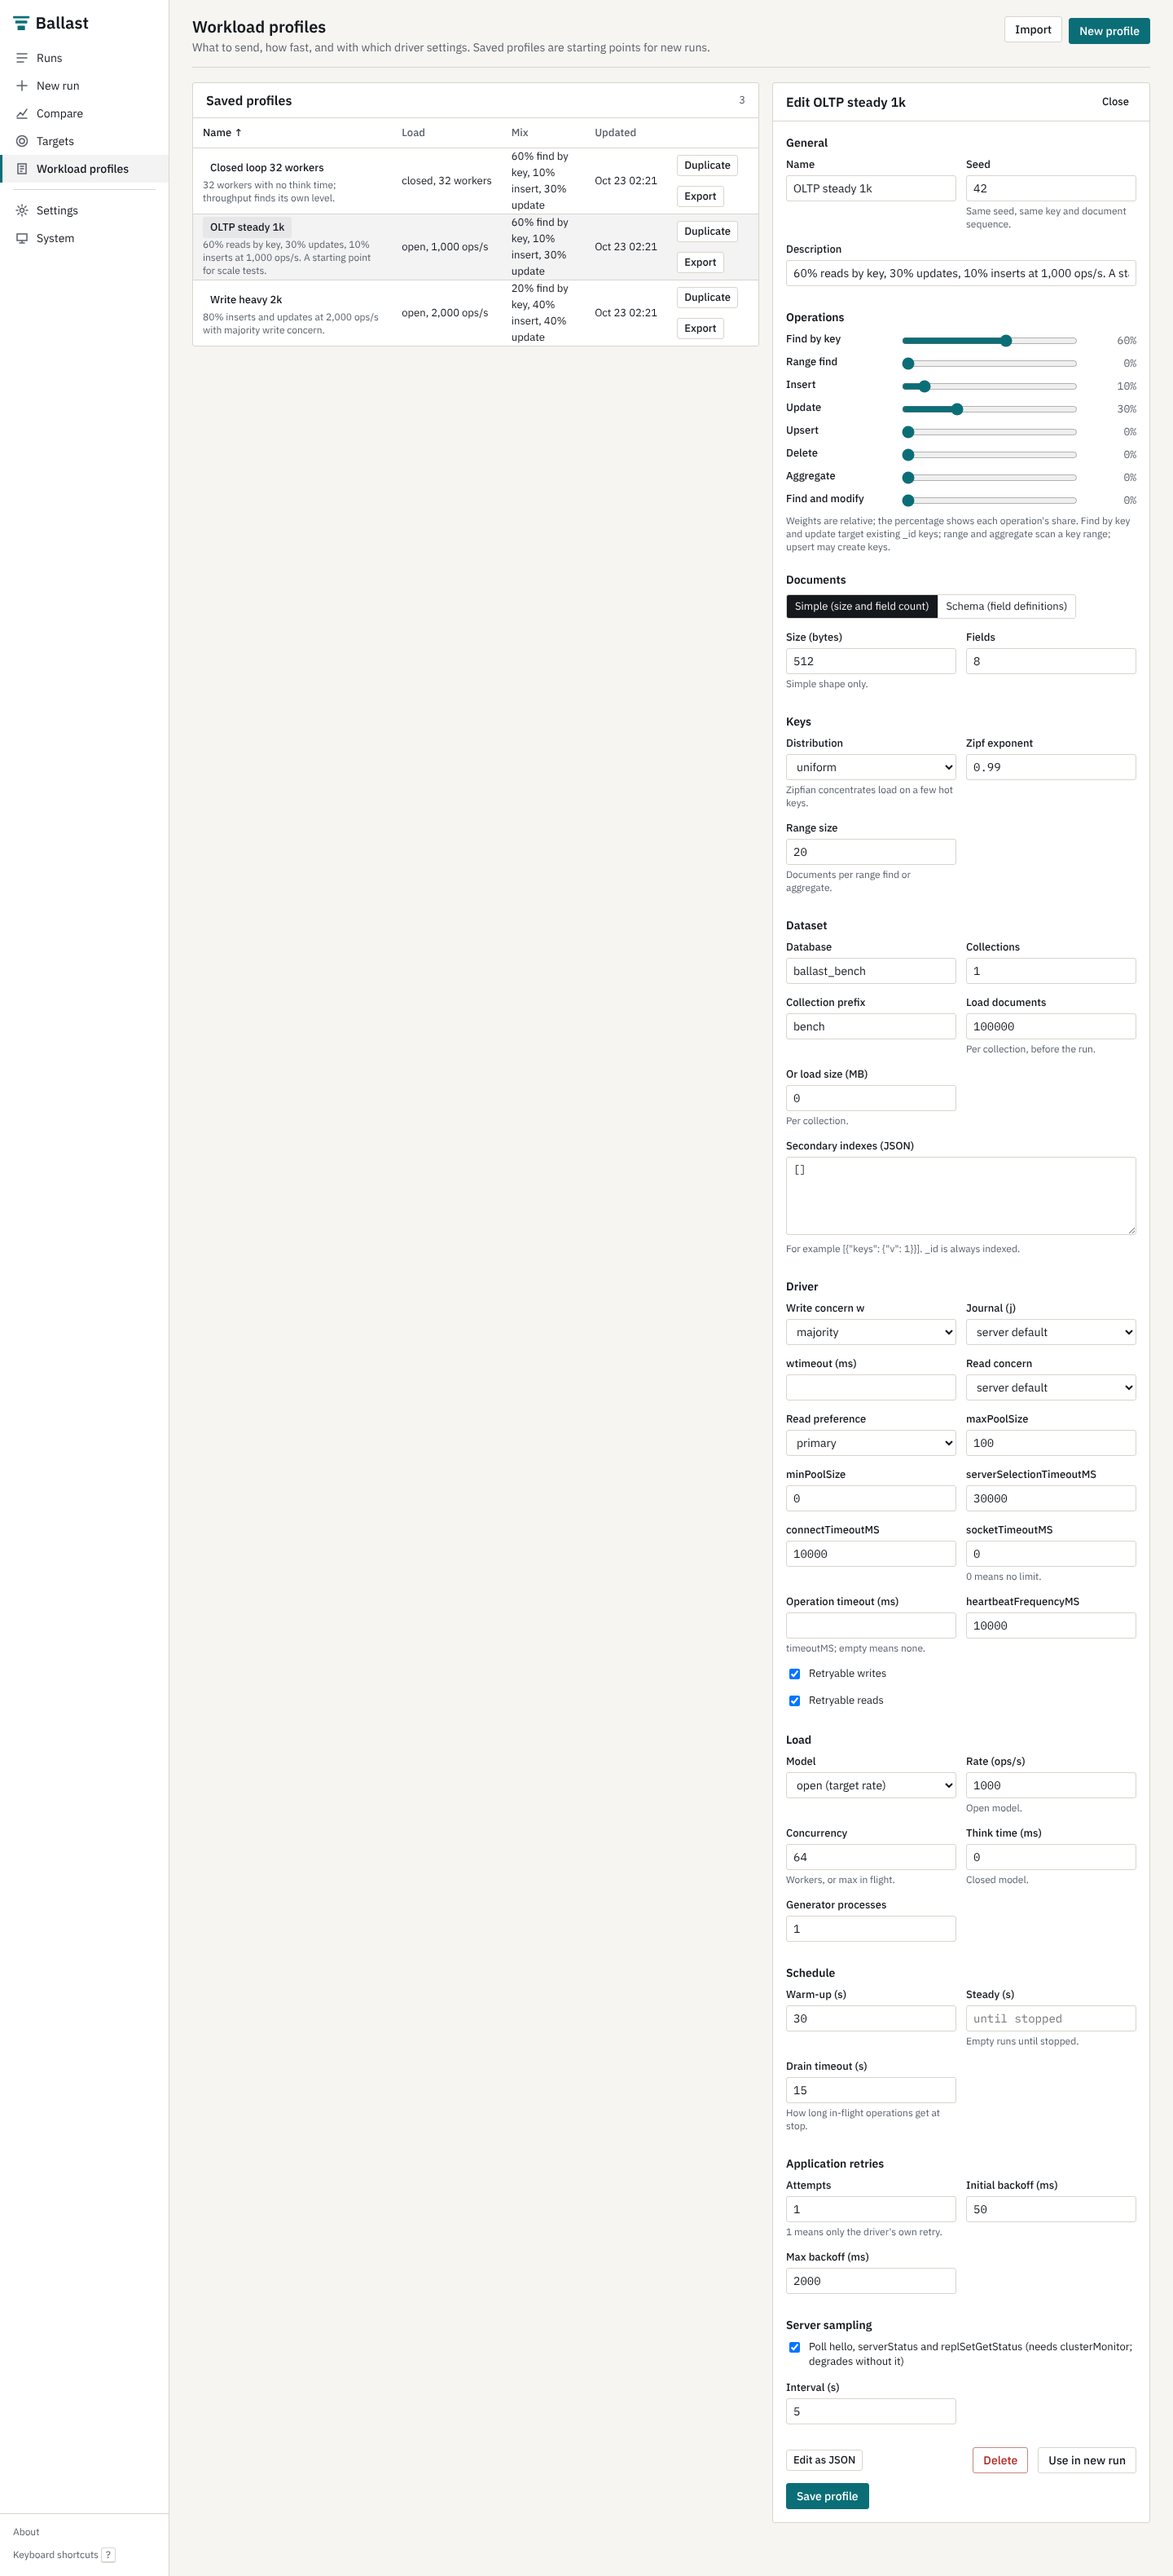
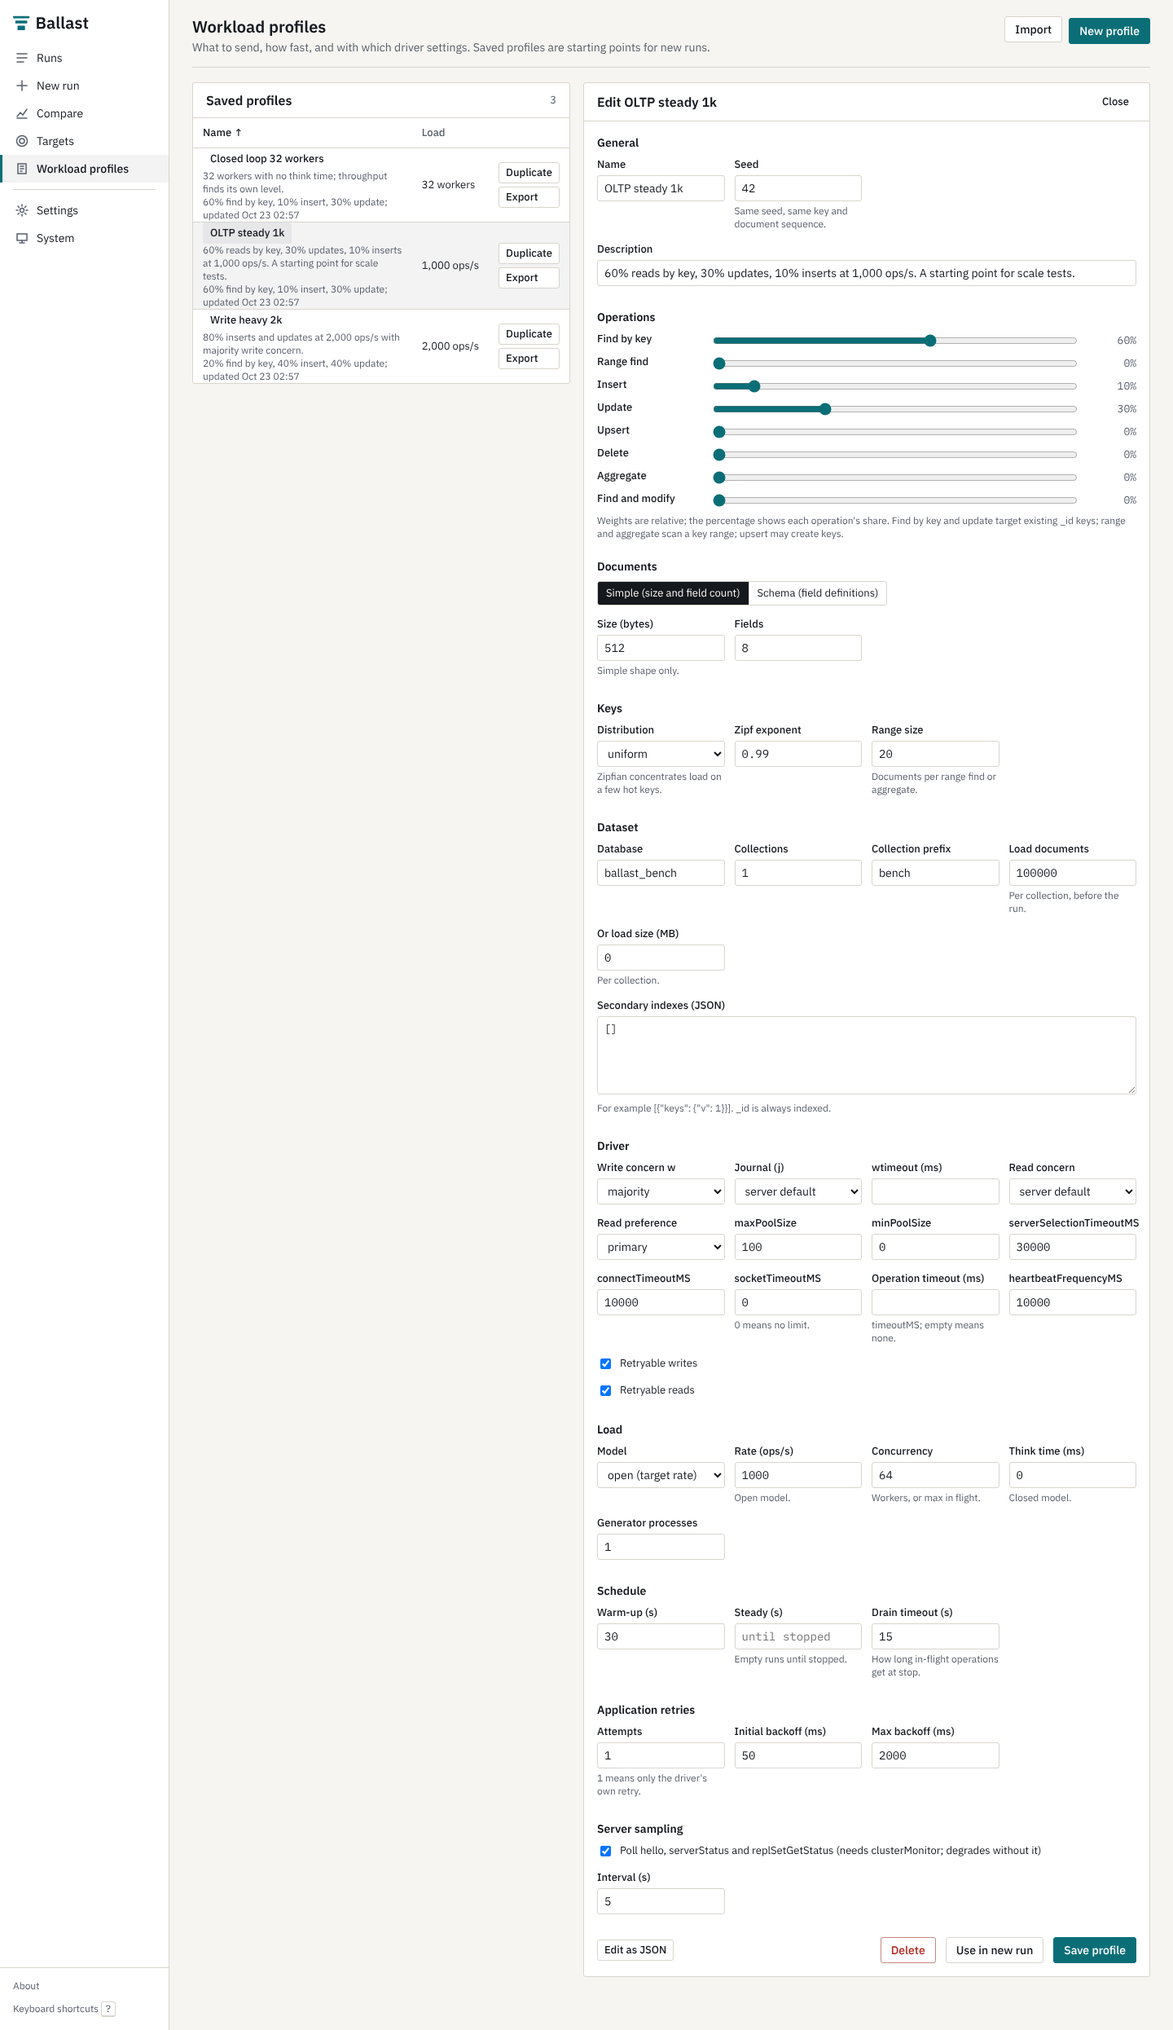
Recapture after screenshots with final UI; tighten profiles list and system page
Claude-Session: https://claude.ai/code/session_01DoMs5j2boR8MfKkuJdVeeC

diff --git a/ballast/web/js/views/profiles.js b/ballast/web/js/views/profiles.js
@@ -12,7 +12,7 @@ export async function render(root) {
   ]));
   const listHost = h("div");
   const editHost = h("div");
-  root.appendChild(h("div", { class: "split" }, [listHost, editHost]));
+  root.appendChild(h("div", { class: "split editor-wide" }, [listHost, editHost]));
   let profiles = [];
   let editing = null;
 
@@ -53,11 +53,9 @@ export async function render(root) {
       return;
     }
     const table = sortableTable([
-      { key: "name", label: "Name", value: (p) => p.name.toLowerCase(), render: (p) => [h("button", { type: "button", class: "btn quiet small", style: null, text: p.name, onclick: () => edit(p) }), h("div", { class: "xs muted", text: p.body.description || "" })], cls: "wrap" },
-      { key: "model", label: "Load", value: (p) => p.body.load.model, render: (p) => (p.body.load.model === "open" ? `open, ${F.num(p.body.load.rate, 0)} ops/s` : `closed, ${F.int(p.body.load.concurrency)} workers`) },
-      { key: "mix", label: "Mix", render: (p) => h("span", { class: "small", text: opsLabel(p.body) }), cls: "wrap" },
-      { key: "updated", label: "Updated", value: (p) => p.updated_at, render: (p) => F.dateTime(p.updated_at) },
-      { key: "act", label: "", render: (p) => h("div", { class: "row" }, [
+      { key: "name", label: "Name", value: (p) => p.name.toLowerCase(), render: (p) => [h("button", { type: "button", class: "btn quiet small", style: null, text: p.name, onclick: () => edit(p) }), h("div", { class: "xs muted", text: p.body.description || "" }), h("div", { class: "xs muted", text: `${opsLabel(p.body)}; updated ${F.dateTime(p.updated_at)}` })], cls: "wrap" },
+      { key: "model", label: "Load", value: (p) => p.body.load.model, render: (p) => (p.body.load.model === "open" ? `${F.num(p.body.load.rate, 0)} ops/s` : `${F.int(p.body.load.concurrency)} workers`) },
+      { key: "act", label: "", render: (p) => h("div", { class: "row-actions" }, [
         button("Duplicate", async () => { try { const c = await api.post(`api/profiles/${p.id}/duplicate`); toast(`Profile duplicated: ${c.name}`); await load(); edit(c); } catch (err) { toast(err.title, "fail"); } }, "small"),
         button("Export", () => download(`api/profiles/${p.id}/export`), "small"),
       ]) },

diff --git a/ballast/web/css/app.css b/ballast/web/css/app.css
@@ -314,3 +314,7 @@ table.data td.hot { color: var(--fail); font-weight: 500; }
 table.impact-table td { white-space: normal; padding-top: 6px; padding-bottom: 6px; }
 table.impact-table th { white-space: normal; line-height: 16px; }
 span.hot { color: var(--fail); font-weight: 500; }
+table.kv td { overflow-wrap: anywhere; }
+.figures { margin-bottom: 12px; }
+.split.editor-wide { grid-template-columns: minmax(0, 2fr) minmax(420px, 3fr); }
+.row-actions { display: flex; flex-direction: column; gap: 4px; align-items: stretch; padding: 6px 0; }
